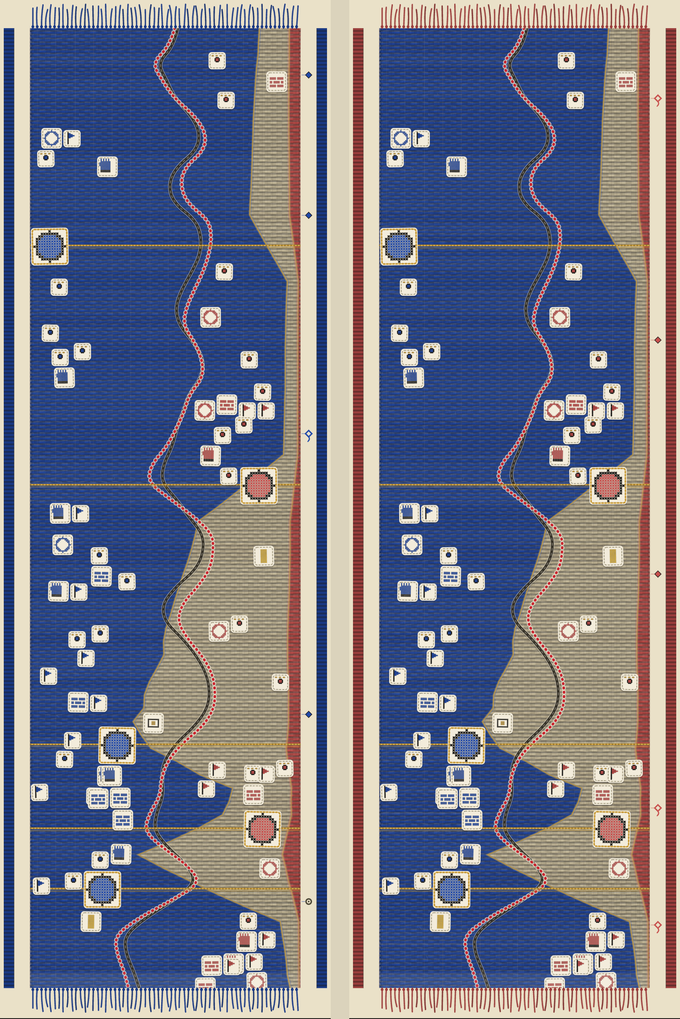
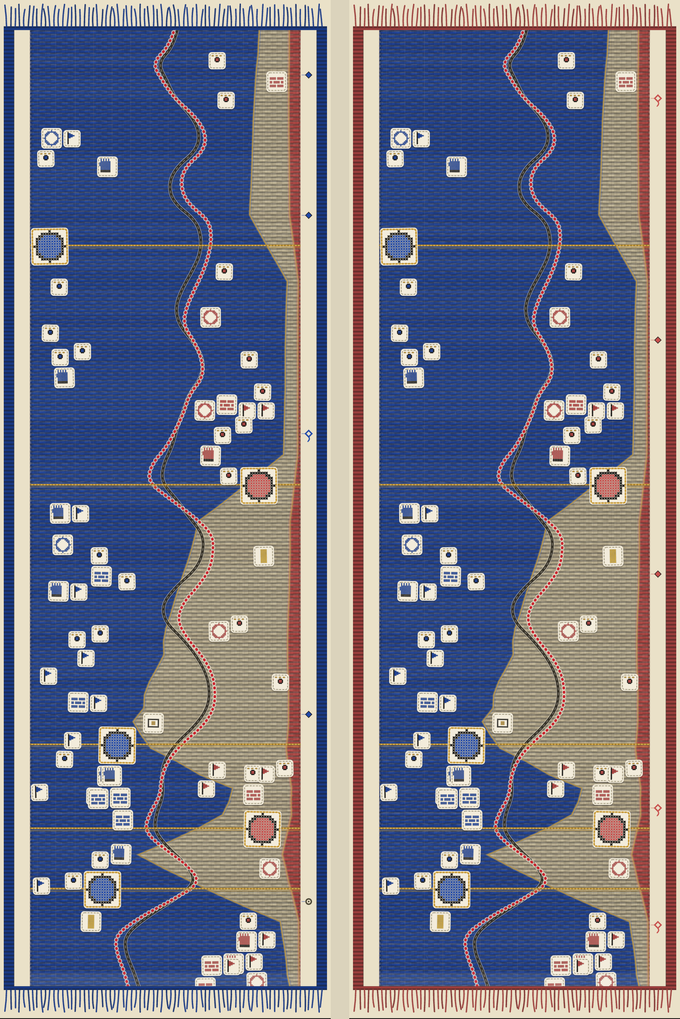
loom: run the fringe full-width + a bound edge — one scarf, not parallel strips
Owner catch: pulling the fringe in to only the cloth width left the side selvage and the call
column capped by nothing, so they read as separate strips beside a fringed cloth — three objects.
Fix: the fringe now spans the FULL width and a continuous team-dyed BINDING BAND caps each end,
so the selvage + cloth + calls channel are tied into one bound, tasselled edge (with the side
selvages it closes the border into a single object). Verified both fans.

diff --git a/apps/web/public/woven-loom.html b/apps/web/public/woven-loom.html
@@ -581,9 +581,12 @@ html.lexport .loomv svg{animation:none;transform:none}
       svg+='<line x1="'+fi+'" y1="'+cy0+'" x2="'+fi+'" y2="'+cy1.toFixed(1)+'" stroke="#1A1815" stroke-width="0.7" opacity="0.35"/><line x1="'+(W-fi)+'" y1="'+cy0+'" x2="'+(W-fi)+'" y2="'+cy1.toFixed(1)+'" stroke="#1A1815" stroke-width="0.7" opacity="0.35"/>';
       // THE FRINGE — the warp runs past the weave at both ends: the tassel. Team-dyed, hand-wavy, knotted at the base.
       // (tail-fringe only once the cloth is sealed — a live cloth is still weaving toward its end.)
-      function fringe(y0,dir){ for(var fx=gx0+3; fx<gx0+grW-1; fx+=4.6){ var j=warpJit(Math.round(fx*2.3)), ln=FRINGE*(0.76+0.22*(0.5+0.5*Math.sin(fx*1.9)));
-          svg+='<path d="M '+fx.toFixed(1)+' '+y0.toFixed(1)+' Q '+(fx+j[0]*1.4).toFixed(1)+' '+(y0+dir*ln*0.55).toFixed(1)+' '+(fx+j[1]*2.4).toFixed(1)+' '+(y0+dir*ln).toFixed(1)+'" fill="none" stroke="'+((Math.round(fx)%3)?frim:shade(rk,0.64))+'" stroke-width="1.5" stroke-linecap="round" opacity="0.92"/>';
-          svg+='<circle cx="'+fx.toFixed(1)+'" cy="'+(y0+dir*1.6).toFixed(1)+'" r="1.5" fill="'+frim+'"/>'; } }
+      function fringe(y0,dir){
+        // the woven binding — ONE continuous team-dyed edge spanning selvage · cloth · channel, so the
+        // whole end reads as a single bound scarf (with the side selvages it closes the border into one object)
+        svg+='<rect x="'+fo+'" y="'+(y0-2).toFixed(1)+'" width="'+(W-2*fo)+'" height="4" fill="'+frim+'"/><rect x="'+fo+'" y="'+(y0-2).toFixed(1)+'" width="'+(W-2*fo)+'" height="4" fill="url(#tone)" color="'+flit+'" opacity="0.4"/>';
+        for(var fx=fo+3; fx<W-fo-1; fx+=4.6){ var j=warpJit(Math.round(fx*2.3)), ln=FRINGE*(0.76+0.22*(0.5+0.5*Math.sin(fx*1.9)));
+          svg+='<path d="M '+fx.toFixed(1)+' '+(y0+dir*1.4).toFixed(1)+' Q '+(fx+j[0]*1.4).toFixed(1)+' '+(y0+dir*ln*0.55).toFixed(1)+' '+(fx+j[1]*2.4).toFixed(1)+' '+(y0+dir*ln).toFixed(1)+'" fill="none" stroke="'+((Math.round(fx)%3)?frim:shade(rk,0.64))+'" stroke-width="1.5" stroke-linecap="round" opacity="0.92"/>'; } }
       fringe(cy0,-1); if(SEALED)fringe(cy1,1);
       // your calls — knotted in the paper channel between the cloth edge and the right selvage (never over the odds)
       var cedge=gx0+grW, knx=cedge+(W-fi-cedge)/2, rev=ty(M.t)*(typeof unroll==='number'?unroll:1);